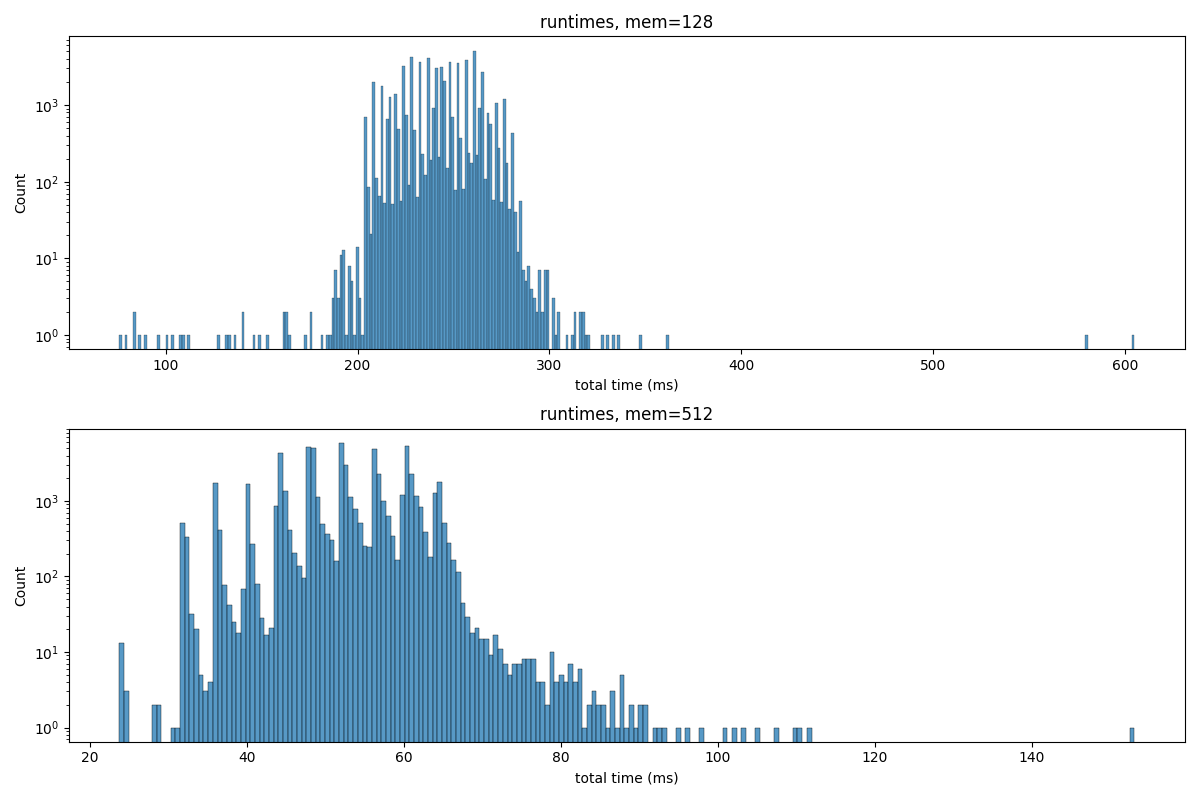
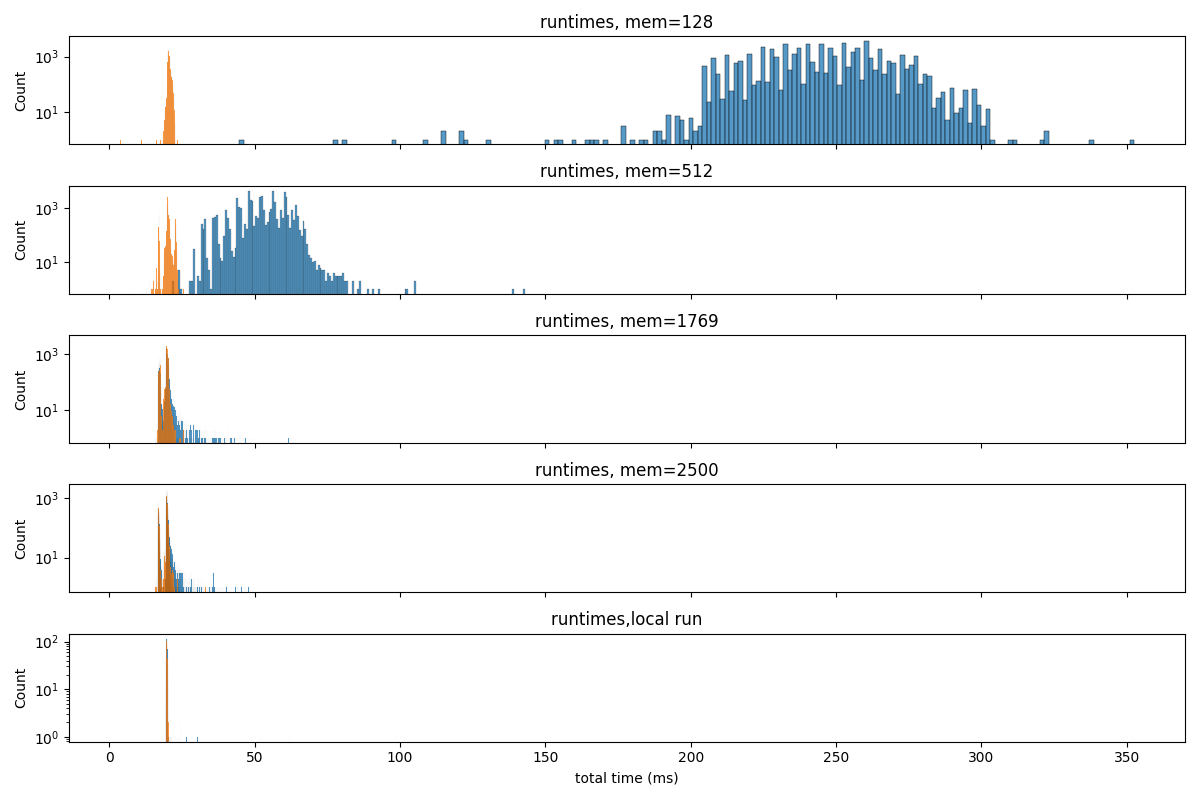
was doing some stuff idk, post submission changed graphs

diff --git a/motivation.tex b/motivation.tex
@@ -7,6 +7,17 @@ interactive workloads such as web applications, and presents
 evidence that the {\problem} will need to be solved in order to
 obtain those benefits.
 
+
+
+
+
+
+
+
+
+
+
+
 \subsection{Web applications are a good fit for serverless}
 
 Serverless is well suited to situations where load can vary rapidly
@@ -18,7 +29,10 @@ For example, consider a web site with 50,000 requests per day, each
 request consuming 200 ms of CPU time and 128 MB of memory. The web
 site is bursty in the sense that it has work only about a fifth of the
 time. Running this web site on AWS Lambda would cost about \$1.60 per
-month. The cheapest EC2 instance (which reserves compute resources)
+month.
+% is this still true if you want 1vCPU? --> no! w/ 1769 would be ~7.50. ok that seems important...
+% although we also know that ec2 instances don't exactly get one vCPU either
+The cheapest EC2 instance (which reserves compute resources)
 costs just over \$3 per month. The expense-minimizing choice differs
 depending on load level and degree of
 burstyness~\cite{econ-of-serverless,trek10-blog},
@@ -29,44 +43,44 @@ reserved resources (e.g., EC2 instances), but such adjustments can take
 multiple minutes~\cite{ec2-autoscaling} and are thus not suited to
 rapid load variation.
 
-\subsection{Serverless today}
+% \subsection{Serverless today}
 
-\begin{figure}[t!]
-  \centering
-    \includegraphics[width=8.5cm]{img/aws_webapp_times.png}
-    \caption{Distribution of end-to-end durations for a simple function on AWS Lambda }
-  \label{fig:lambda-total-durations}
-\end{figure}
+% \begin{figure}[t!]
+%   \centering
+%     \includegraphics[width=8.5cm]{img/aws_webapp_times.png}
+%     \caption{Distribution of end-to-end durations for a simple function on AWS Lambda }
+%   \label{fig:lambda-total-durations}
+% \end{figure}
 
 
-Serverless today does not provide the latencies that would be required of a web
-server. We demonstrate this with a simple web application hosted on AWS that
-uses the recommended serverless stack of: an ingress load balancer (API
-Gateway), handler code (Lambda), and a database (DynamoDB). 
+% Serverless today does not provide the latencies that would be required of a web
+% server. We demonstrate this with a simple web application hosted on AWS that
+% uses the recommended serverless stack of: an ingress load balancer (API
+% Gateway), handler code (Lambda), and a database (DynamoDB). 
 
-We model the distribution of gets/puts of real web applications, which have been
-shown to have a skew of $\sim$95$\%$ gets, 5$\%$ puts. Gets fetch a table with
-$~\sim$2K posts in it, and puts edit the content of one of those posts. We make
-an API request every 30 seconds, and measure the end to end latencies of the
-request within the AWS infrastructure using AWS XRay. The results are in
-Figure~\ref{fig:lambda-total-durations}. The times for the puts are mostly long,
-because puts are rare and so are usually hitting cold starts. The times for gets
-have a wide distribution, though this cannot be caused by cold starts since
-requests are usually 30 seconds apart. We can see from this distribution that
-the observed end-to-end latencies are not acceptable for a web application. We
-cannot, however, draw conclusions as to where this variation comes from.
-\hmng{that's a little bit of a lie, we have a bit of a breakdown of these times.
-Working on a graph for that rn, we can look at some candidates/discuss in the
-meeting}
+% We model the distribution of gets/puts of real web applications, which have been
+% shown to have a skew of $\sim$95$\%$ gets, 5$\%$ puts. Gets fetch a table with
+% $~\sim$2K posts in it, and puts edit the content of one of those posts. We make
+% an API request every 30 seconds, and measure the end to end latencies of the
+% request within the AWS infrastructure using AWS XRay. The results are in
+% Figure~\ref{fig:lambda-total-durations}. The times for the puts are mostly long,
+% because puts are rare and so are usually hitting cold starts. The times for gets
+% have a wide distribution, though this cannot be caused by cold starts since
+% requests are usually 30 seconds apart. We can see from this distribution that
+% the observed end-to-end latencies are not acceptable for a web application. We
+% cannot, however, draw conclusions as to where this variation comes from.
+% \hmng{that's a little bit of a lie, we have a bit of a breakdown of these times.
+% Working on a graph for that rn, we can look at some candidates/discuss in the
+% meeting}
 
-\hmng{how does this point relate to the crowding problem? Is it that we think
-one of the reasons for the variance is the crowding problem? Would be great if
-we could at least start to draw that connection, but will have lots of
-conjecture. Ig this is what we did for the hotos draft, but feels like with the
-other (more micro-benchmark-y) aws experiment is able to make a stronger
-connection. Or is the point more separately proving that the state of the world
-is such that it is implausible to run a web application on serverless? That's
-kinda how I'm phrasing it here and how I read it }
+% \hmng{how does this point relate to the crowding problem? Is it that we think
+% one of the reasons for the variance is the crowding problem? Would be great if
+% we could at least start to draw that connection, but will have lots of
+% conjecture. Ig this is what we did for the hotos draft, but feels like with the
+% other (more micro-benchmark-y) aws experiment is able to make a stronger
+% connection. Or is the point more separately proving that the state of the world
+% is such that it is implausible to run a web application on serverless? That's
+% kinda how I'm phrasing it here and how I read it }
 
 
 
@@ -75,8 +89,21 @@ kinda how I'm phrasing it here and how I read it }
 \begin{figure}[t!]
   \centering
     \includegraphics[width=8.5cm]{img/aws_cpubench_times.png}
-    \caption{ Distribution of function wall-clock time passed during computation of a $\sim$20ms function on AWS lambda. The y axis is log scale. }
+    \caption{ Distribution of function wall-clock time passed during computation
+    of a $\sim$20ms function on AWS lambda. Orange is the cpu time used
+    (rusage), blue is the wall-clock time that passed. The y axis is log scale.
+    }
   \label{fig:lambda-cpu-bench}
+\end{figure}
+
+\begin{figure}[t!]
+  \centering
+    \includegraphics[width=8.5cm]{img/aws_cpubench_cputimes.png}
+    \caption{ Distribution of function wall-clock time passed during computation
+    of a $\sim$20ms function on AWS lambda. Orange is the cpu time used
+    (rusage), blue is the wall-clock time that passed. The y axis is log scale.
+    }
+  \label{fig:lambda-cputimes}
 \end{figure}
 
 \begin{figure}[t!]
@@ -88,7 +115,7 @@ kinda how I'm phrasing it here and how I read it }
     \label{fig:knative}
 \end{figure}
 
-Cloud providers like AWS are motivated to keep their compute hardware as busy as
+Cloud providers are motivated to keep their compute hardware as busy as
 possible, in order to avoid waste and reduce costs. In a non-reservation system
 like serverless, if the average load is near capacity (to minimize average
 waste), the peak load will be above capacity, imposing either queuing or
@@ -102,23 +129,26 @@ this \problem{}. The function we run mainly consists of a double for loop that
 computes a matrix multiplication. It measures the wall clock time that passes
 between the beginning and the end of the loop, as well as the cpu time that it
 got. In AWS, the fractional amount of CPU time a function gets is tied to the
-maximum amount of memory it configures, so we run the function in two settings:
-once with memory a limit of 128 MB, and once with 512 MB. We invoke each
-function every 30 seconds for 24 hours.
+maximum amount of memory it configures, so we run the function with different
+memory configuations. We invoke each function every 30 seconds for 24 hours. We
+also run the same code on a local unloaded machine.
 
-The results are in Figure~\ref{fig:lambda-cpu-bench}; not pictured are the
-cpu-times of each run, which hold steady at $\sim$ 20ms. At a glance, the
+The results are in figure~\ref{fig:lambda-cpu-bench}. At a glance, the
 \problem{} is evident: the wall-clock time it takes to run the exact same code
-varies significantly. The absolute size of the spread for the 512MB
-configuration is about half the size of the 128MB configuration's.
-\hmng{actually, this makes me curious what happens if we go up to 1 vCPU. Could
-there be a graph relating spread size to mem config/vCPU amt?} A separate
-interesting artifact in the graph are the spikes, prominent even in a log-scale
-y axis depiction. The spikes occur every 4ms, which is the default linux
-scheduling interval. The likely conclusion is that each spike represents a
-number of scheduling cycles passed before the function was able to finish, with
-times in between being caused by an intermediate function not using its whole
-4ms scheduling interval.
+varies significantly. The size of the spread as well as the expected different
+between cpu time and wall clock time changes as the memory assigned to the
+function grows. The spread of the cpu times (orange) comes from the function
+running on different machines. This effect can be seen in
+figure~\ref{fig:lambda-cputimes}, where the cpu times are grouped by functions
+that shared a container.
+
+A separate interesting artifact in figure~\ref{fig:lambda-cpu-bench} are the
+spikes, prominent even in a log-scale y axis depiction, especially on the top
+two subgraphs. The spikes occur every 4ms, which is the default linux scheduling
+interval. The likely conclusion is that each spike represents a number of
+scheduling cycles passed before the function was able to finish, with times in
+between being caused by an intermediate function not using its whole 4ms
+scheduling interval.
 
 
 We find that the crowding problem also happens in open-source serverless
@@ -127,22 +157,13 @@ for each function; pods time-share the provider's servers. Knative assigns
 function invocations to pods until the pods are fully loaded, and then queues
 invocations until a pod has capacity or the autoscaler has created new pod. We
 run an experiment with Knative in which we generate a steady stream of
-background functions and periodically invoke a latency-sensitive function that
-computes for $\sim$50ms. Figure~\ref{fig:knative} shows how the end-to-end
+background functions and periodically invoke a latency-sensitive function; all
+of the work is cpu-bound. Figure~\ref{fig:knative} shows how the end-to-end
 request durations for the foreground function change in the face of a spike in
-load of the background traffic. The graph breaks down the duration into queuing
-and runtime (i.e., the time from the first to last line of code of the
-function). It shows that both become more variable when the background traffic
-load is higher, with spikes in queueing time and variable as well as overall
-significantly higher runtimes. \hmng{ queueing immediately becomes a little more
-variable, but only really starts spiking a little less than one second later
-which is also when runtimes spike (what is happening there?). Half a second
-later runtimes go back down again, though stay more variable, and queueing
-stabilizes (presumably this is that the new pods have been started?). Do we want
-a more aggressive experiment where background load becomes so high that capcity
-is overall exceeded, so that even when new pods are started the times stay
-higher? Becuase this is kind of making the point more about auto scaling being
-slow, which is also crowding but while its waiting for stuff to start}
+load of the background traffic; showing queuing and runtime separately (runtime
+being the time from the first to last line of code of the function). It shows
+that both become more variable when the background traffic load is higher, with
+spikes in queueing time and variable as well as higher runtimes.
 
 The takeaway here is that the duration of latency sensitive functions is
 affected significantly by the background load, which leads to both queueing and
